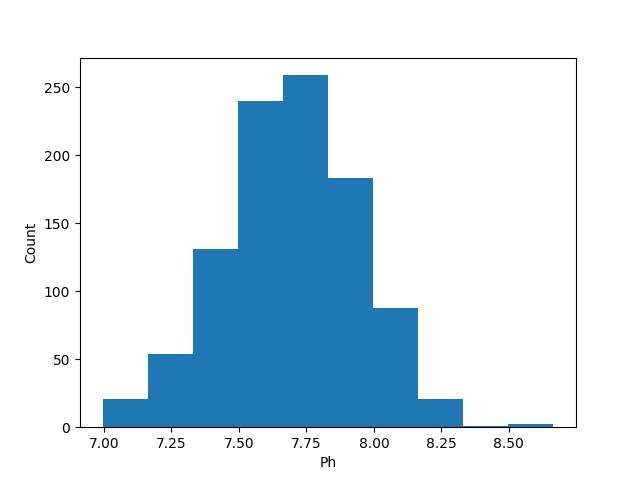
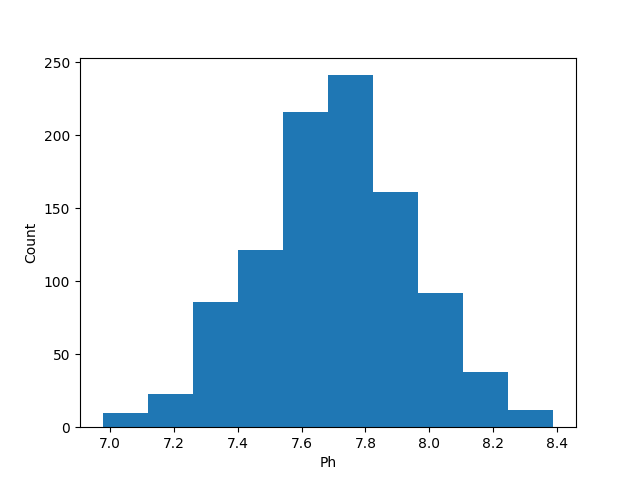
remove static example image

diff --git a/docs/conf.py b/docs/conf.py
@@ -14,11 +14,6 @@ author = 'Alec Krueger'
 # -- General configuration ---------------------------------------------------
 # https://www.sphinx-doc.org/en/master/usage/configuration.html#general-configuration
 
-# extensions = [
-#     'matplotlib.sphinxext.plot_directive',
-#     'sphinx_gallery.gen_gallery',
-#     'autoapi.extension',
-# ]
 
 extensions = [
     'sphinx_gallery.gen_gallery',
@@ -77,7 +72,7 @@ autodoc_typehints = "signature"
 
 autoapi_member_order = 'alphabetical'
 
-# autoapi_keep_files = True
+autoapi_keep_files = False
 
 # Parse docstrings using the NumPy format
 napoleon_numpy_docstring = True

diff --git a/docs/examples/plot_data_from_netcdf_example.py b/docs/examples/plot_data_from_netcdf_example.py
@@ -5,9 +5,6 @@ Data From Netcdf Example
 How to use the data_from_netcdf function to load data from a netcdf file.
 We also plot a hovmoller plot of chlorophyll 
 
-.. image:: ../examples/example_plots/data_from_netcdf_example.png
-    :alt: Pre-generated image for this example
-
 """
 from gerg_plotting.tools import data_from_netcdf
 from gerg_plotting.plotting_classes import ScatterPlot

diff --git a/docs/examples/plot_animation_histogram_example.py b/docs/examples/plot_animation_histogram_example.py
@@ -4,9 +4,6 @@ Animation Histogram Example
 
 Example description
 
-.. image:: ../examples/example_plots/animation_histogram_example.gif
-    :alt: GIF of a normal distribution with increasing sample size
-
 """
 from gerg_plotting.data_classes import Data
 from gerg_plotting.plotting_classes import Histogram, Animator

diff --git a/docs/examples/plot_simple_custom_variable_example.py b/docs/examples/plot_simple_custom_variable_example.py
@@ -4,9 +4,6 @@ Simple Custom Variable Example
 
 Example description
 
-.. image:: ../examples/example_plots/simple_custom_variable_example.png
-    :alt: Pre-generated image for this example
-
 """
 from gerg_plotting.data_classes import Data,Variable
 from gerg_plotting.plotting_classes import Histogram

diff --git a/docs/examples/plot_simple_scatter_plot_example.py b/docs/examples/plot_simple_scatter_plot_example.py
@@ -4,9 +4,6 @@ Simple Scatter Plot Example
 
 Example description
 
-.. image:: ../examples/example_plots/simple_scatter_plot_example.png
-    :alt: Pre-generated image for this example
-
 """
 from gerg_plotting.plotting_classes import ScatterPlot
 from gerg_plotting.tools import data_from_csv

diff --git a/docs/examples/plot_simple_hovmoller_example.py b/docs/examples/plot_simple_hovmoller_example.py
@@ -4,9 +4,6 @@ Simple Hovmoller Example
 
 Example description
 
-.. image:: ../examples/example_plots/simple_hovmoller_example.png
-    :alt: Pre-generated image for this example
-
 """
 from gerg_plotting.plotting_classes import ScatterPlot
 from gerg_plotting.tools import data_from_csv

diff --git a/docs/examples/plot_map_subplots_example.py b/docs/examples/plot_map_subplots_example.py
@@ -4,9 +4,6 @@ Map Subplots Example
 
 Example description
 
-.. image:: ../examples/example_plots/map_subplots_example.png
-    :alt: Pre-generated image for this example
-
 """
 from gerg_plotting.plotting_classes import MapPlot
 from gerg_plotting.data_classes import Bounds,Variable

diff --git a/docs/examples/plot_simple_histogram_example.py b/docs/examples/plot_simple_histogram_example.py
@@ -4,9 +4,6 @@ Simple Histogram Example
 
 Example description
 
-.. image:: ../examples/example_plots/simple_histogram_example.png
-    :alt: Pre-generated image for this example
-
 """
 from gerg_plotting.plotting_classes import Histogram
 from gerg_plotting.data_classes import Data

diff --git a/docs/examples/plot_power_spectra_example.py b/docs/examples/plot_power_spectra_example.py
@@ -4,9 +4,6 @@ Power Spectra Example
 
 Example description
 
-.. image:: ../examples/example_plots/power_spectra_example.gif
-    :alt: Pre-generated image for this example
-
 """
 from gerg_plotting.plotting_classes import ScatterPlot
 from gerg_plotting.tools import data_from_df

diff --git a/docs/examples/plot_tricontourf_example.py b/docs/examples/plot_tricontourf_example.py
@@ -4,9 +4,6 @@ Tricontourf Example
 
 Example description
 
-.. image:: ../examples/example_plots/tricontourf_example.png
-    :alt: Pre-generated image for this example
-
 """
 from gerg_plotting.plotting_classes import ScatterPlot
 from gerg_plotting.tools import data_from_csv

diff --git a/docs/examples/plot_quiver_2d_example.py b/docs/examples/plot_quiver_2d_example.py
@@ -4,9 +4,6 @@ Quiver 2D Example
 
 Example description
 
-.. image:: ../examples/example_plots/quiver_2d_example.png
-    :alt: Pre-generated image for this example
-
 """
 from gerg_plotting.plotting_classes import ScatterPlot
 from gerg_plotting.tools import data_from_csv

diff --git a/docs/examples/plot_quiver_1d_example.py b/docs/examples/plot_quiver_1d_example.py
@@ -4,9 +4,6 @@ Quiver 1D Example
 
 Example description
 
-.. image:: ../examples/example_plots/quiver_1d_example.png
-    :alt: Pre-generated image for this example
-
 """
 from gerg_plotting.plotting_classes import ScatterPlot
 from gerg_plotting.tools import data_from_df
